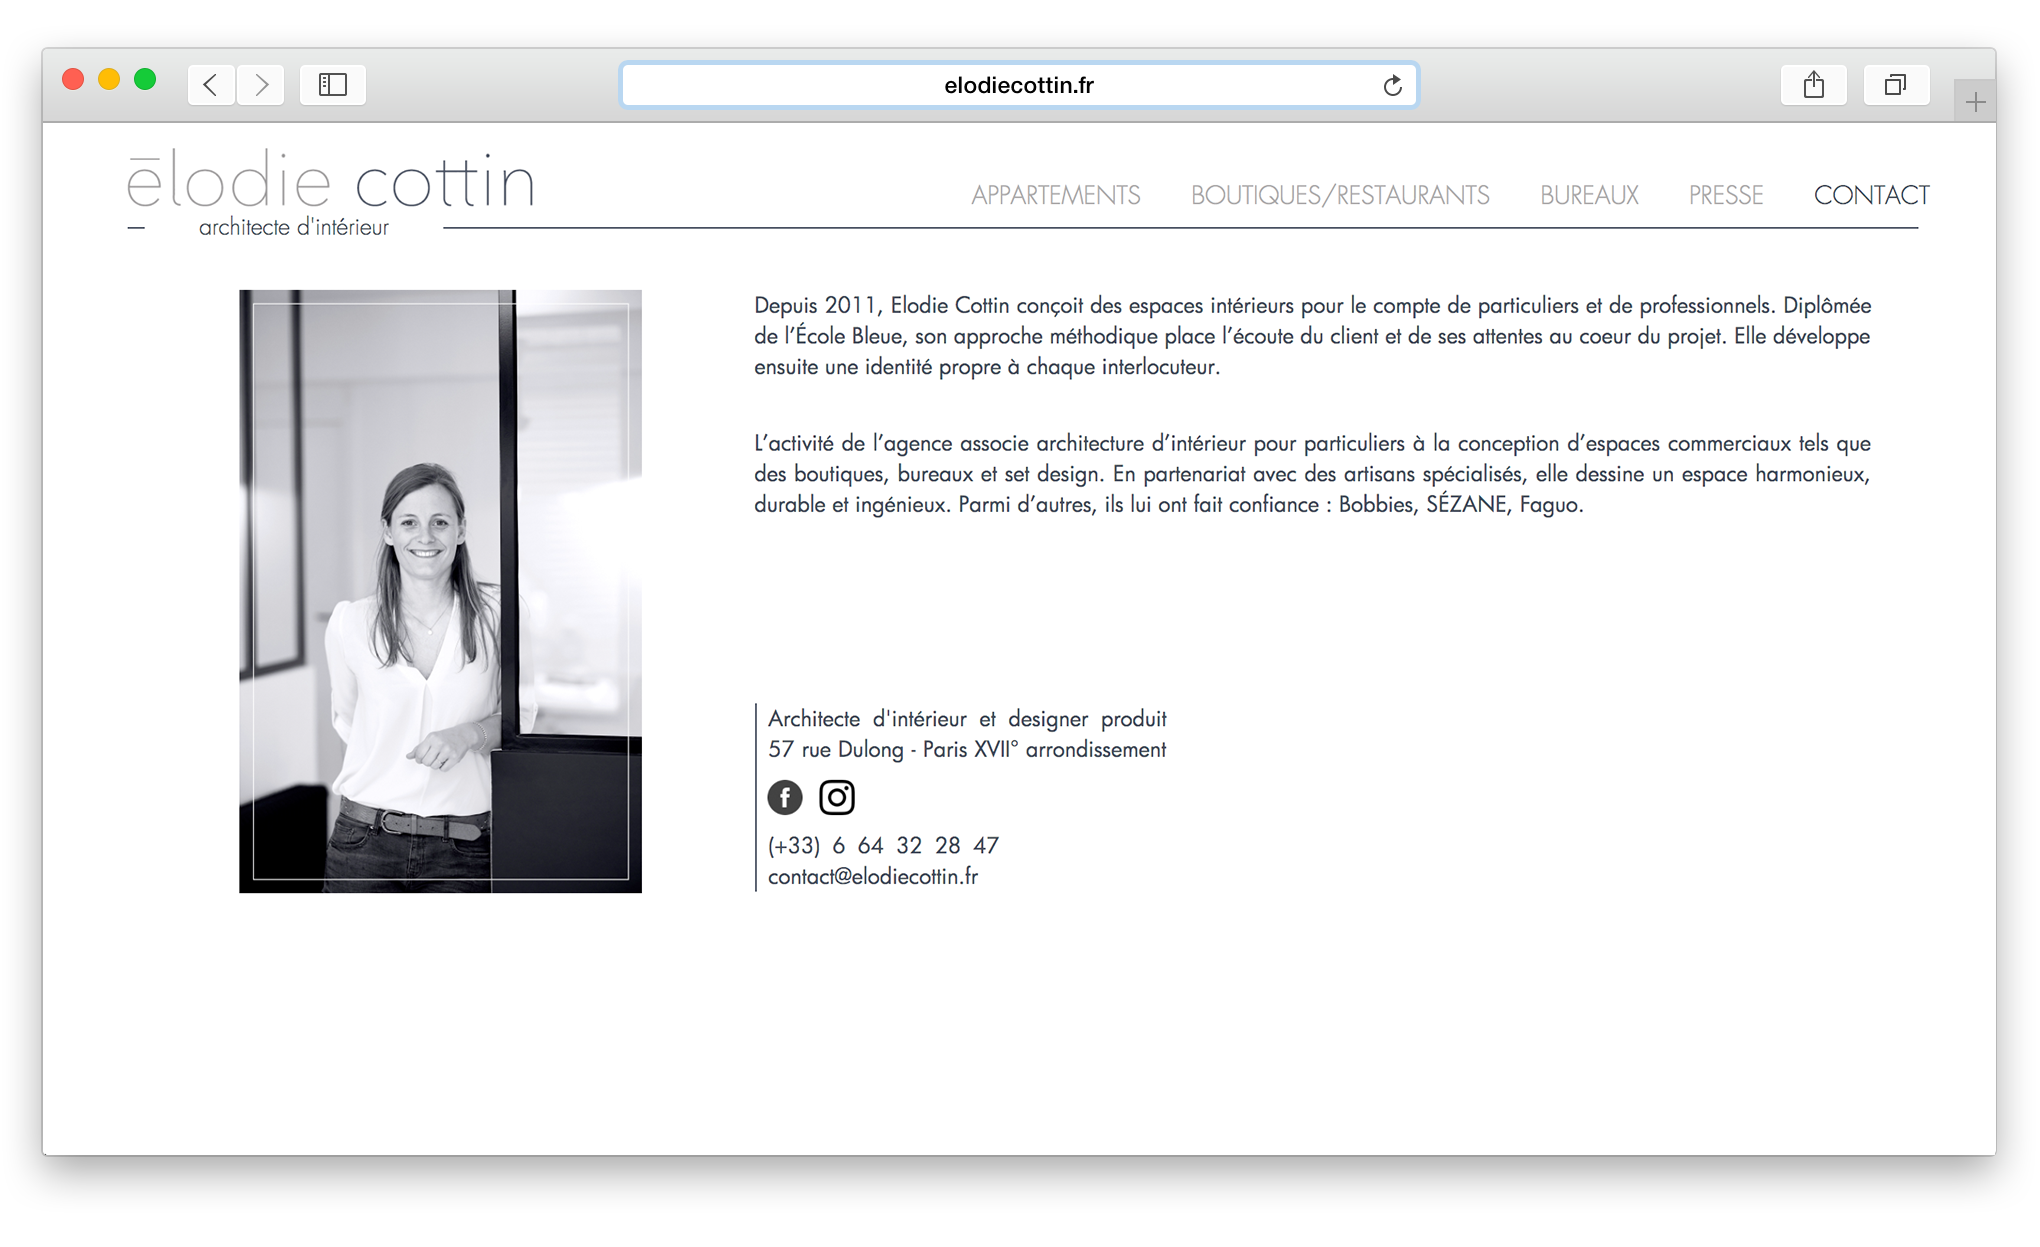
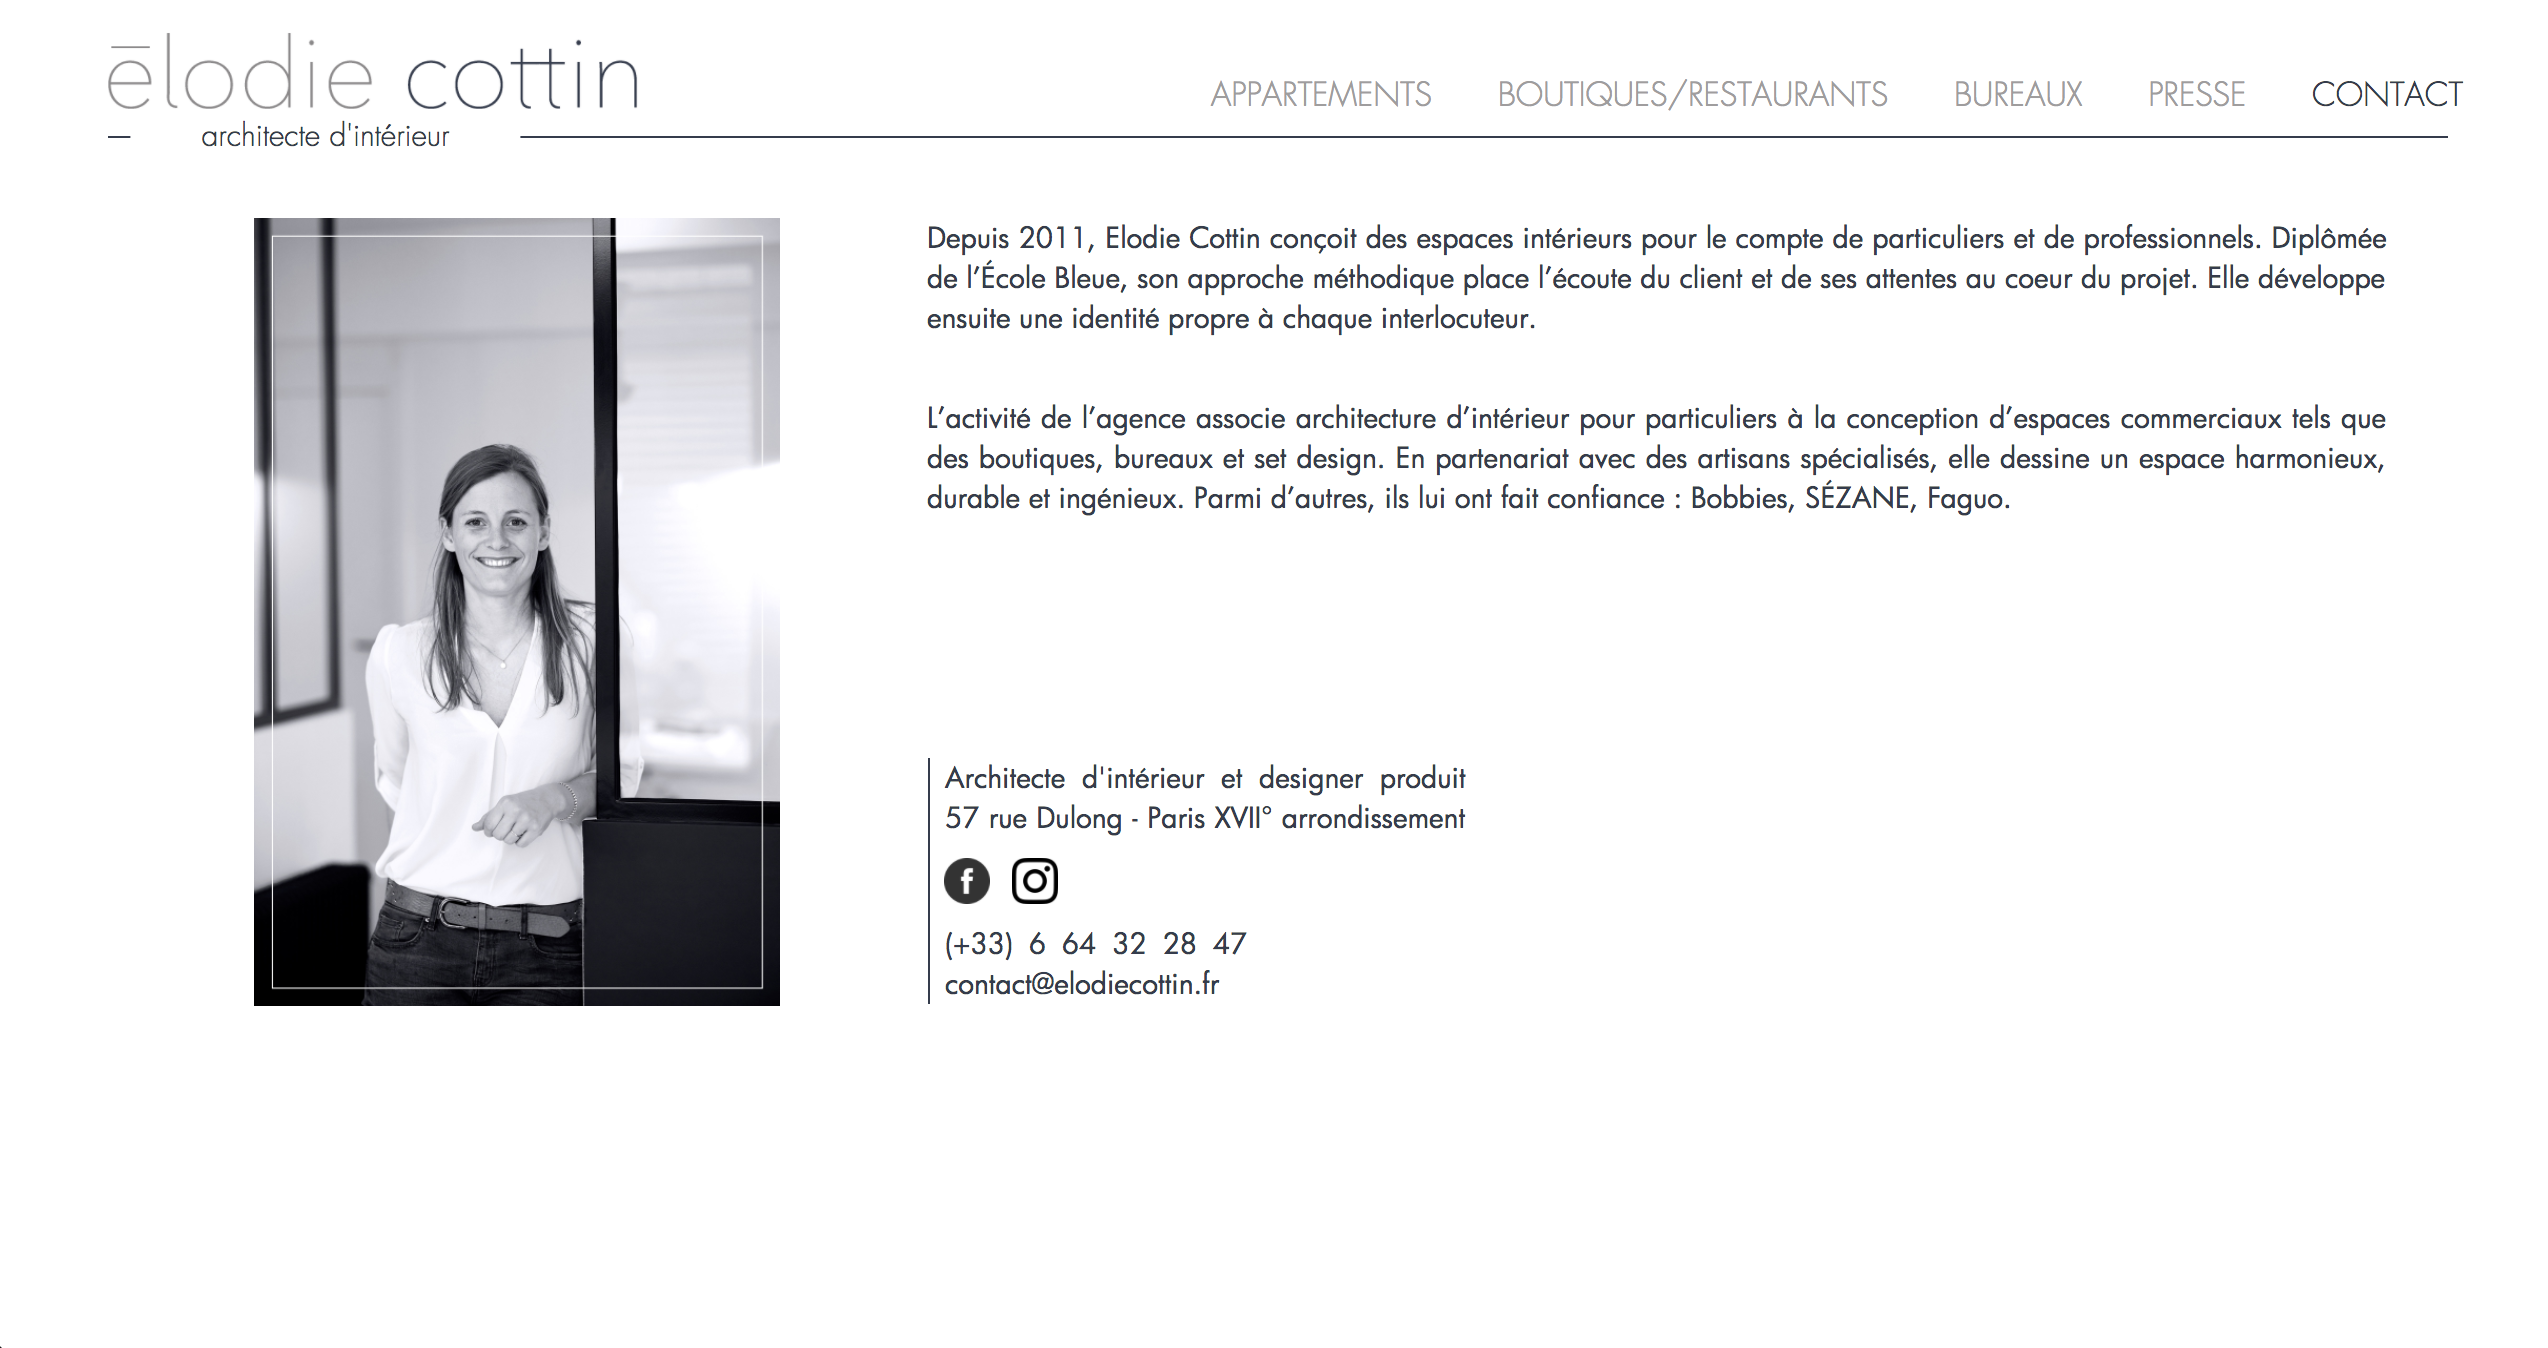
:ok_hand: changing img frames

Changed region(s): [[0.0, 0.0305, 0.9882, 0.9751], [0.3706, 0.5485, 0.5868, 0.7618]]

diff --git a/src/elodie-cottin.html b/src/elodie-cottin.html
@@ -53,7 +53,7 @@
                 <div class="project-views">
                     <h2 class="homepage-subtitle">views</h2>
                     <div class="project-views-img">
-                        <img src="assets/img/elodie-cottin-homepage-frame.png" alt="Elodie Cottin homepage">
+                        <img src="assets/img/elodie-cottin-homepage.png" alt="Elodie Cottin homepage">
                         <img src="assets/img/elodie-cottin-appt-frame.png" alt="Elodie Cottin appartements page">
                         <img src="assets/img/elodie-cottin-appt2-frame.png" alt="Elodie Cottin appartements detailed page">
                         <img src="assets/img/elodie-cottin-bureaux-frame.png" alt="Elodie Cottin bureaux page">

diff --git a/src/charlotte-domingos.html b/src/charlotte-domingos.html
@@ -91,8 +91,8 @@
                 <div class="project-views">
                     <h2 class="homepage-subtitle">views</h2>
                     <div class="project-views-img">
-                        <img src="assets/img/charlotte-domingos-frame.png" alt="Charlotte Domingos homepage">
-                        <img src="assets/img/charlotte-domingos-projects-frame.png" alt=" Charlotte Domingos projects section">
+                        <img src="assets/img/charlotte-domingos.png" alt="Charlotte Domingos homepage">
+                        <img src="assets/img/charlotte-domingos-projects.png" alt=" Charlotte Domingos projects section">
                     </div>
                 </div>
 

diff --git a/gulpfile.js b/gulpfile.js
@@ -87,7 +87,10 @@ gulp.task( 'javascript', function()
 // Minifies images
 gulp.task('imagemin', function()
 {
-    return gulp.src(config.src + 'img/*')
+    return gulp.src( [
+        config.src + 'img/*',
+        config.src + 'img/videoplayer/*'
+    ])
         .pipe(gulp_imagmin())
         .pipe(gulp.dest(config.assets + 'img'))
         .pipe(gulp_connect.reload())
